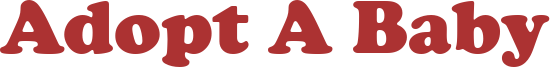
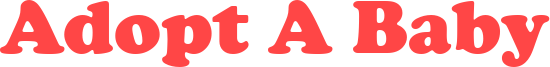
updated the footer and the page margin and padding as well as the colour to match more closely the opensea account

diff --git a/adopt-a-baby/src/effects/particle-config.js b/adopt-a-baby/src/effects/particle-config.js
@@ -1,28 +1,28 @@
 const ParticleConfig = {
     particles: {
       number: {
-        value: 50,
+        value: 75,
         density: {
           enable: false,
           value_area: 800
         }
       },
       color: {
-        value: "#000000"
+        value: "#ff4646"
       },
       shape: {
-        type: "square",
+        type: "circle",
         stroke: {
-          width: 0,
-          color: "#000000"
+          width: 6,
+          color: "#ff4646"
         },
         polygon: {
           nb_sides: 5
         },
       },
       opacity: {
-        value: 0.5,
-        random: false,
+        value: 1,
+        random: true,
         anim: {
           enable: false,
           speed: 1,
@@ -42,12 +42,12 @@ const ParticleConfig = {
       },
       move: {
         enable: true,
-        speed: 4.810236182596568,
+        speed: 5,
         direction: "top",
         random: true,
         straight: false,
         out_mode: "out",
-        bounce: false,
+        bounce: true,
         attract: {
           enable: false,
           rotateX: 600,
@@ -59,7 +59,7 @@ const ParticleConfig = {
       detect_on: "canvas",
       events: {
         onclick: {
-          enable: true,
+          enable: false,
           mode: "repulse"
         },
         resize: true

diff --git a/adopt-a-baby/src/App.js b/adopt-a-baby/src/App.js
@@ -1,8 +1,7 @@
-
 import './app.css'
 import Title from "./components/atoms/Title/Title";
 import Babies from "./components/atoms/Babies/Babies";
-import Footer from './components/atoms/Footer/Footer';
+import CustomFooter from './components/atoms/Footer/CustomFooter';
 import ParticlesBackground from "./effects/ParticlesBackground";
 import { isMobile } from "react-device-detect";
 import React from "react";
@@ -35,24 +34,29 @@ class App extends React.Component {
       return <>Loading...</>;
     } else if (!mobile) {
       return (
-        <>
+        <div className='page-container'>
+        <div className='content-wrap'>
           <ParticlesBackground class="particle-bkg" />
           <Title />
           <div class="container">
             <Babies />
           </div>
-          <Footer />
-        </>
+
+        </div>
+        <CustomFooter />
+        </div>
       );
     }
     return (
-      <>
+      <div className='mobile-page-container'>
+      <div className='content-wrap'>
         <Title />
         <div class="container">
           <Babies />
         </div>
-        <Footer />
-      </>
+      </div>
+      <CustomFooter />
+      </div>
   
     );
   }

diff --git a/adopt-a-baby/src/components/atoms/Footer/CustomFooter.js b/adopt-a-baby/src/components/atoms/Footer/CustomFooter.js
@@ -4,20 +4,20 @@ import { faInstagram } from "@fortawesome/free-brands-svg-icons"
 import { faTwitter } from "@fortawesome/free-brands-svg-icons"
 import './footer.css'
 
-export default function Footer() {
+const CustomFooter = () => {
   return (
       <> 
-          <footer className='footer'>
-          
+          <footer className='main-footer'>
             <div className='link-container'>
                 <ul>
                     <a href="/"><li><FontAwesomeIcon icon={faInstagram} className="icons"/></li></a>
                     <a href="/"><li><FontAwesomeIcon icon={faTwitter} className="icons"/></li></a>
                 </ul>
             </div>
-            
           </footer>
       </>
    
   )
 }
+
+export default CustomFooter

diff --git a/adopt-a-baby/src/components/atoms/Footer/footer.css b/adopt-a-baby/src/components/atoms/Footer/footer.css
@@ -1,8 +1,10 @@
-.footer {
-    height: 25vh;
+.main-footer {
+    height: 20vh;
     margin-top: 30px;
-    margin-bottom: 30px;
-    border-top: solid 2px #ac3232;
+    width: 100%;
+    bottom: 0;
+    position: relative;
+    border-top: solid 2px #ff4646;
     text-align: center;
     background-color: whitesmoke;
 }
@@ -24,5 +26,5 @@ li {
 .icons {
     z-index: -2;
     font-size: 30px;
-    color: #ac3232;
+    color: #ff4646;
 }

diff --git a/adopt-a-baby/src/app.css b/adopt-a-baby/src/app.css
@@ -1,5 +1,17 @@
-#root {
+html, body, #root, #app {
     width: 100%;
+    margin: 0% !important;
+}
+
+
+.page-container {
+    display: flex;
+    flex-direction: column;
+    min-height: 100vh;
+}
+
+.content-wrap {
+    flex:1;
 }
 
 #tsparticles {
@@ -12,4 +24,6 @@
 h1, h2, h3, h4, h5, p{
     font-family: Verdana, Geneva, Tahoma, sans-serif
 }
+
+
 

diff --git a/adopt-a-baby/src/components/atoms/Babies/babies.css b/adopt-a-baby/src/components/atoms/Babies/babies.css
@@ -13,5 +13,5 @@
 }
 
 .welcome {
-    color: #ac3232;
+    color: #ff4646;
 }
